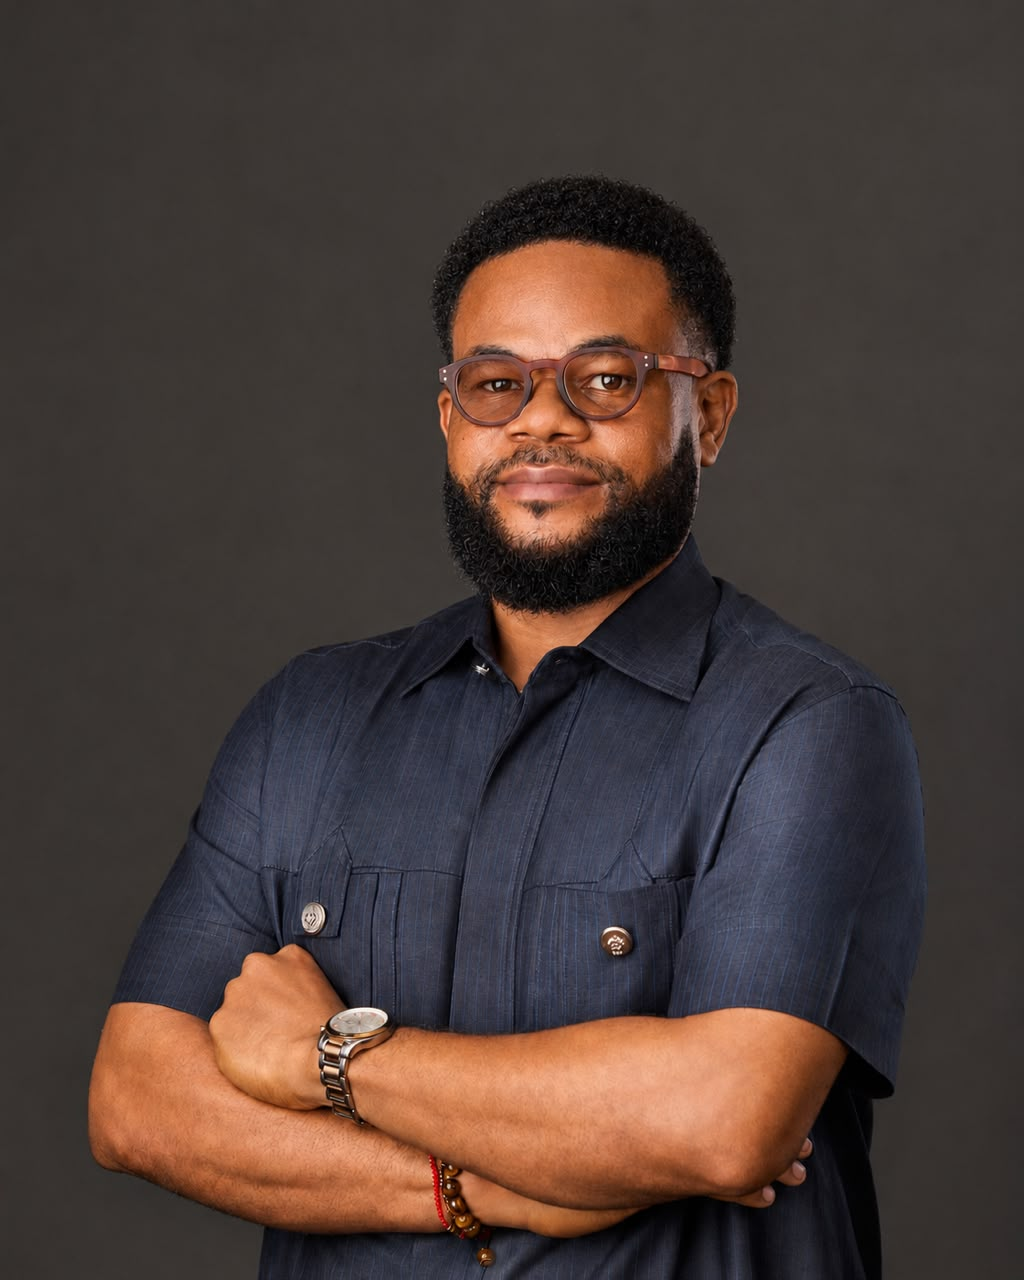
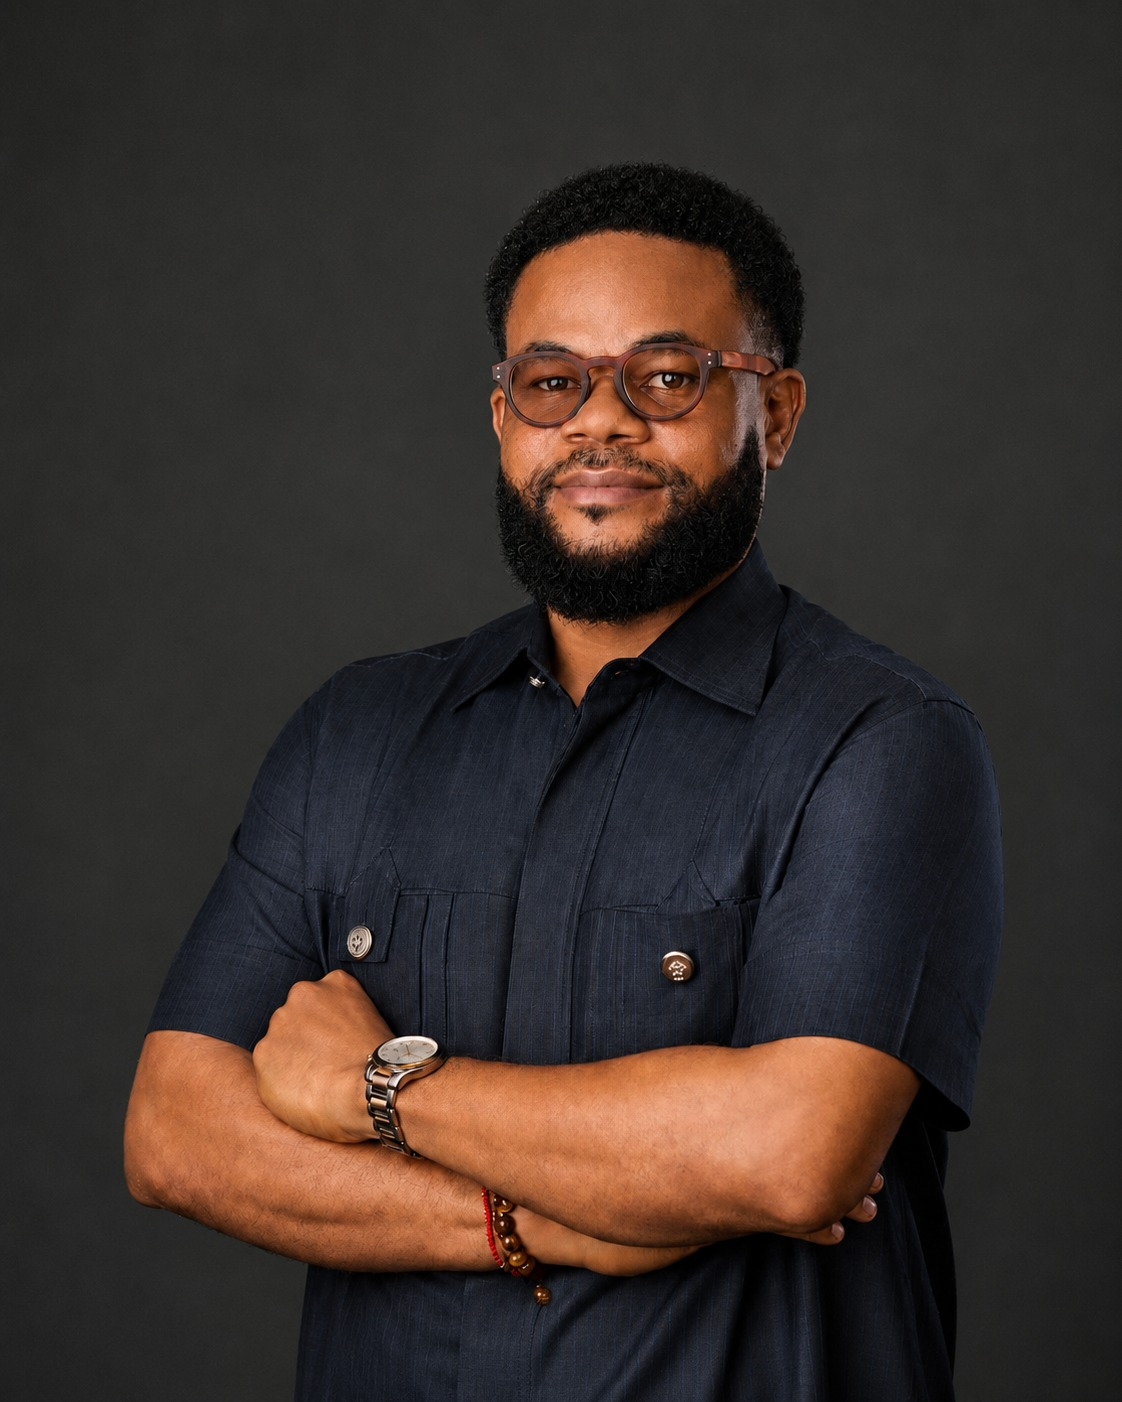
did final changes

diff --git a/src/Pages/About.jsx b/src/Pages/About.jsx
@@ -62,13 +62,13 @@ const aboutSections = [
 
     // label: "Who We Are",
 
-    title: "Everyday Impacft",
+    title: "Everyday Impact",
 
     text: `At the heart of Zitelle Group is a simple mission: to manufacture essential products that improve daily living while driving sustainable growth for the communities and industries we serve.
 `,
     extra: `From the oil used in homes and businesses, to the soap used for bathing, laundry and cleaning, to the jerrycans that package and protect liquid products, and the wood products that support construction, furniture, and commercial use – Zitelle Group serves practical needs across multiple parts of the market.`,
 
-    image: "/zitelle/IMG_0164.jpeg",
+    image: "/zitelle/impact_about.jpeg",
   },
   {
     id: 6,
@@ -84,7 +84,7 @@ const aboutSections = [
 
     extra: `We believe that every product carrying the Zitelle name should reflect care, reliability and usefulness. Whether a customer is buying oil for household use, soap for daily washing, jerrycans for commercial packaging, or wood products for business needs, they should feel confident in the standard behind the product. `,
 
-    image: "/zitelle/IMG_8398.png",
+    image: "/zitelle/standard_about.jpeg",
   },
 ];
 

diff --git a/src/Components/AboutComponents/TeamSection.jsx b/src/Components/AboutComponents/TeamSection.jsx
@@ -15,7 +15,7 @@ const teamMembers = [
   {
     name: "James Monweya",
     role: "Chief Financial Controller",
-    image: "/zitelle/James Monweya.png",
+    image: "/zitelle/James Monweya.jpeg",
   },
   {
     name: "Stella Akunyiba ",
@@ -29,6 +29,11 @@ const teamMembers = [
   //     "https://images.unsplash.com/photo-1488426862026-3ee34a7d66df?q=80&w=1200&auto=format&fit=crop",
   // },
   {
+    name: "Sonia Enumah",
+    role: "General Manager LAGOS",
+    image: "/zitelle/Sonia Enumah.jpeg",
+  },
+  {
     name: "Nonso Oyeoka",
     role: "Head of Audit & Internal Control",
     image: "/zitelle/Nonso Oyeoka.jpeg",
@@ -39,11 +44,6 @@ const teamMembers = [
     image: "/zitelle/Emmanuel Edobor.jpeg",
   },
 
-  {
-    name: "Sonia Enumah",
-    role: "Head of Administration",
-    image: "/zitelle/Sonia Enumah.jpeg",
-  },
   {
     name: "Kenneth Anuforo",
     role: "Head of Human Resource",

diff --git a/src/Pages/Business.jsx b/src/Pages/Business.jsx
@@ -32,7 +32,7 @@ const businesses = [
     categories: "Construction",
     description:
       "TATA & BOBO is Zitelle Group’s plywood business, supplying  a wide range of plywood and board products for furniture making, interior finishing, and construction – focused on providing customers quality, dependable stock, smooth order execution and competitive pricing.",
-    image: "/zitelle/DBL_0511.png",
+    image: "/zitelle/plywood_home.jpeg",
     path: "/services/plywood",
   },
   {

diff --git a/src/Components/HomeComponents/BusinessSection.jsx b/src/Components/HomeComponents/BusinessSection.jsx
@@ -31,7 +31,7 @@ const BusinessSection = () => {
       title: "Plywood",
       description:
         "Our plywood is responsibly sourced and imported from China. We work with consistent specifications and clear order handling to support customers who need dependable availability and predictable supply.  ",
-      image: "/zitelle/DBL_0511.png",
+      image: "/zitelle/plywood_home.jpeg",
       link: "/services/plywood",
     },
 

diff --git a/src/Components/HomeComponents/Hero.jsx b/src/Components/HomeComponents/Hero.jsx
@@ -21,7 +21,7 @@ const slides = [
   },
   {
     id: 2,
-    src: "/zitelle/hero2.jpg",
+    src: "/zitelle/slide2_home.jpeg",
     alt: "Zitelle Soap Manufacturing",
     title: (
       <>
